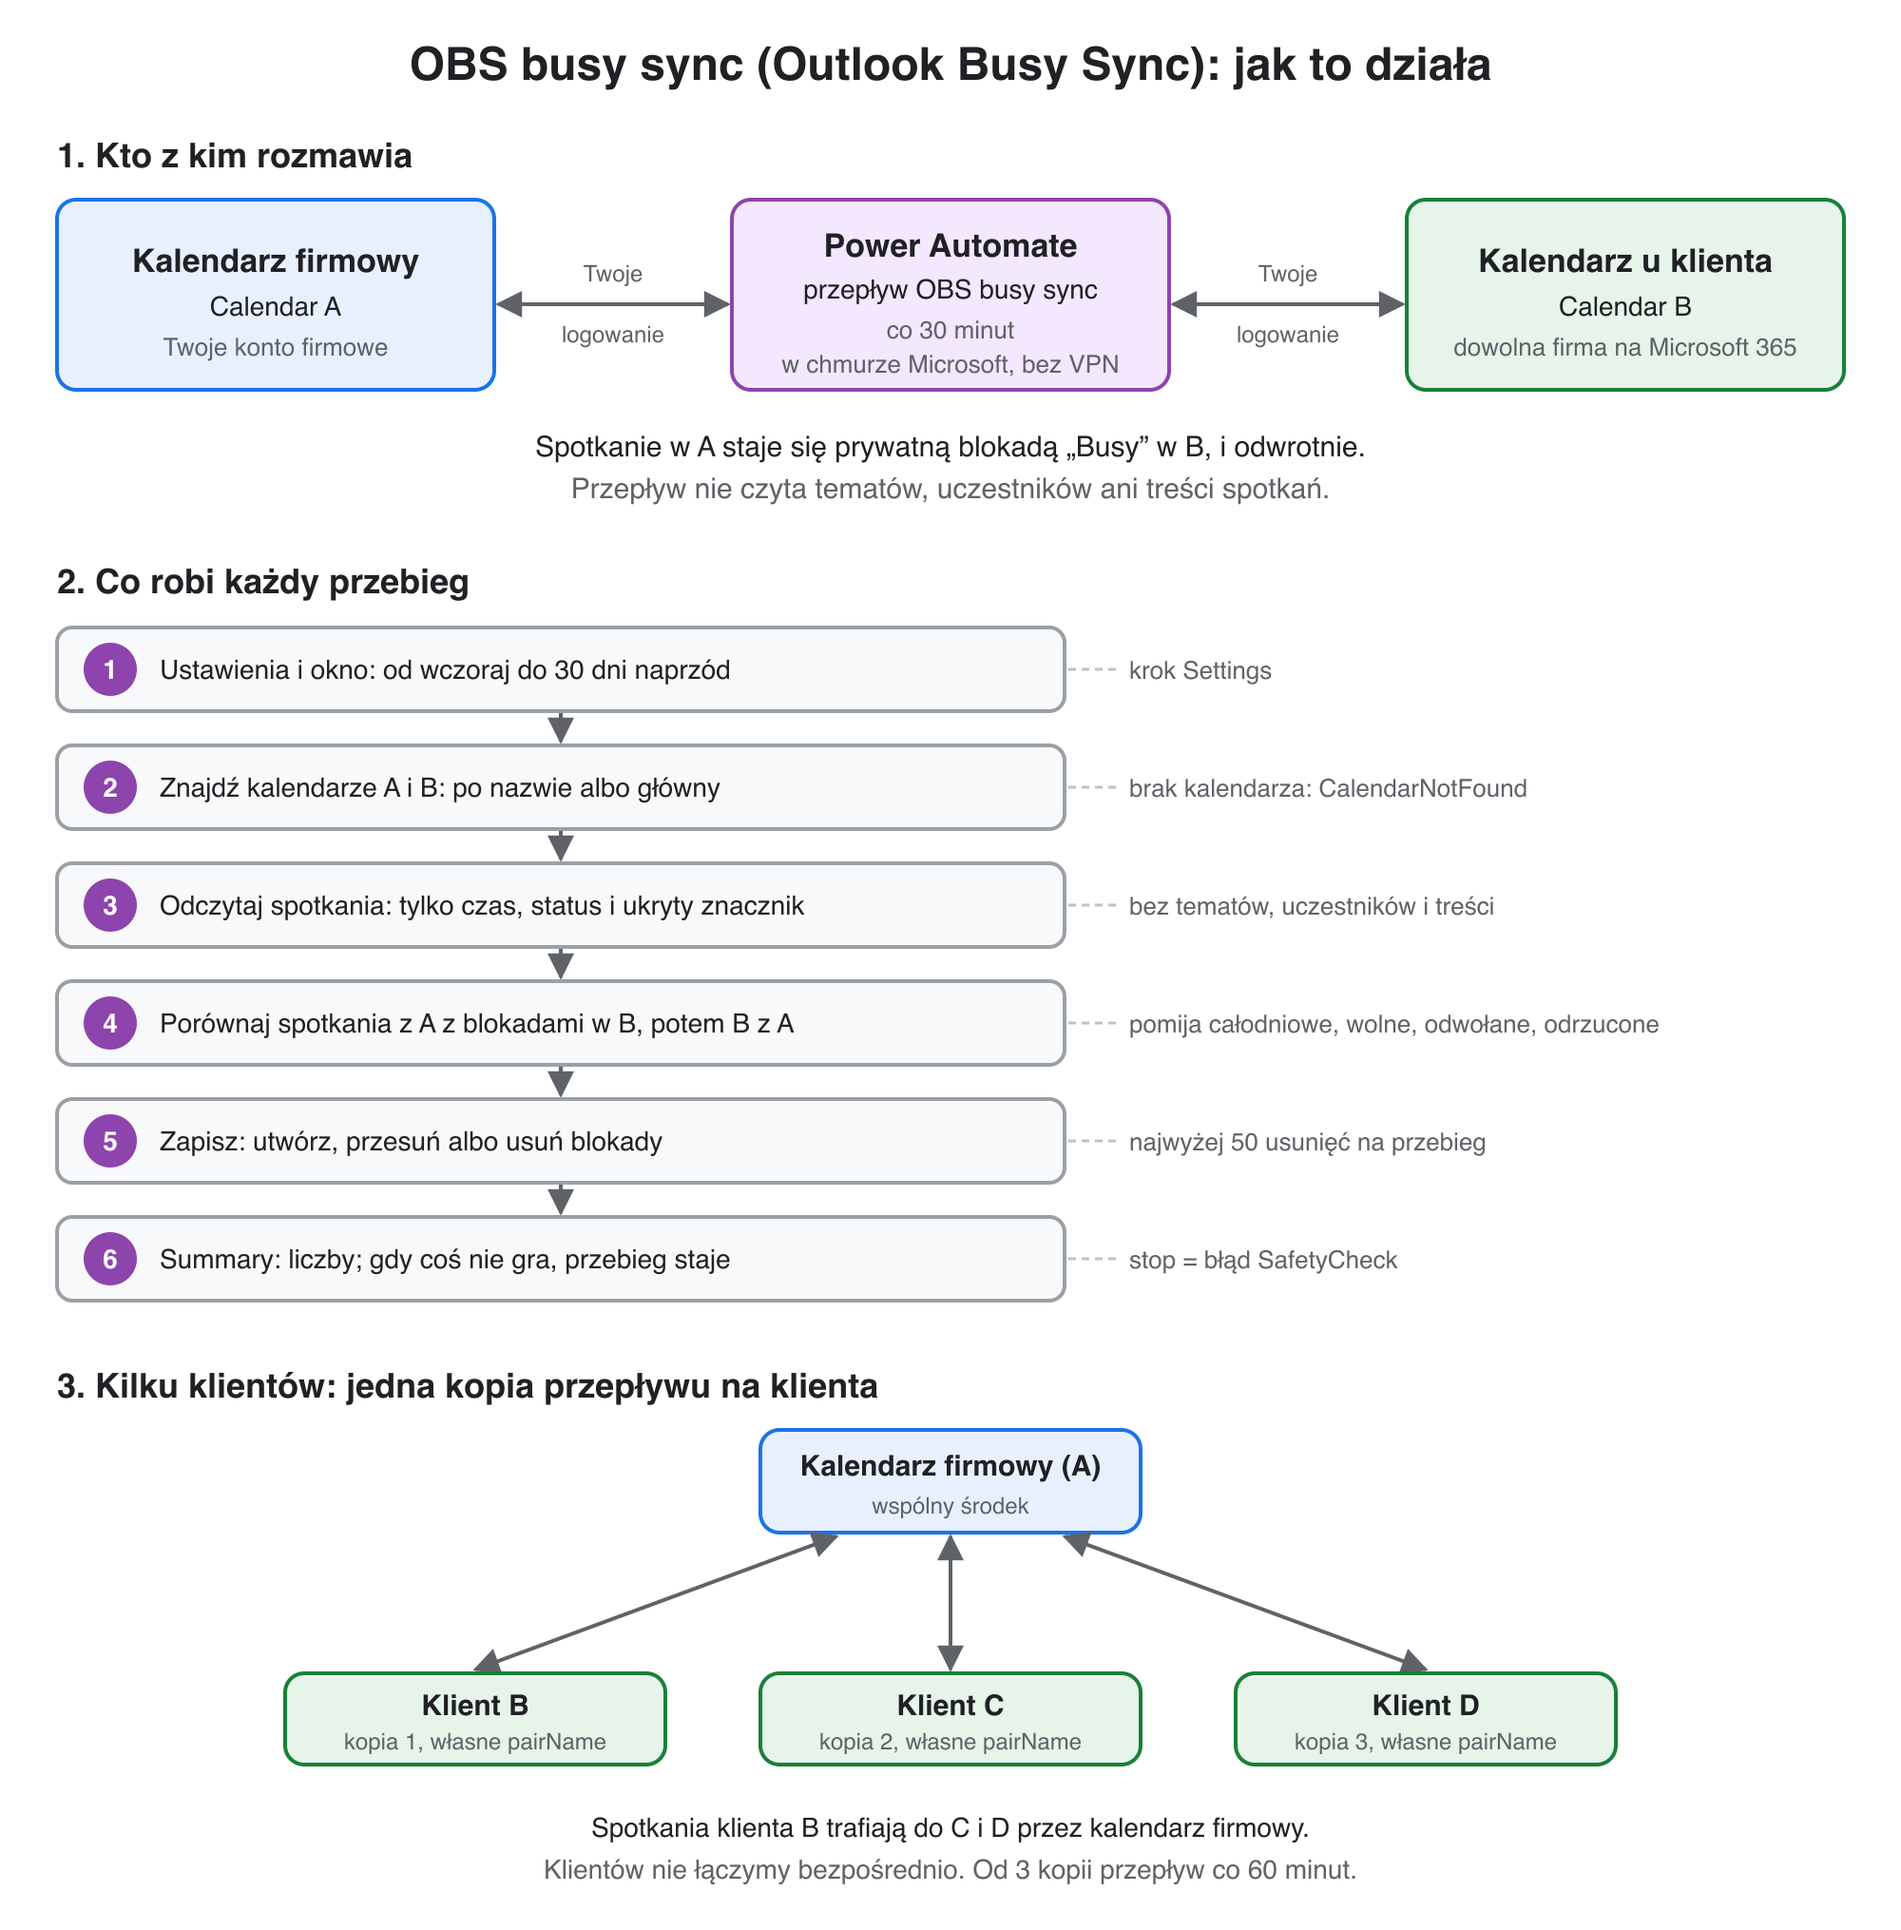
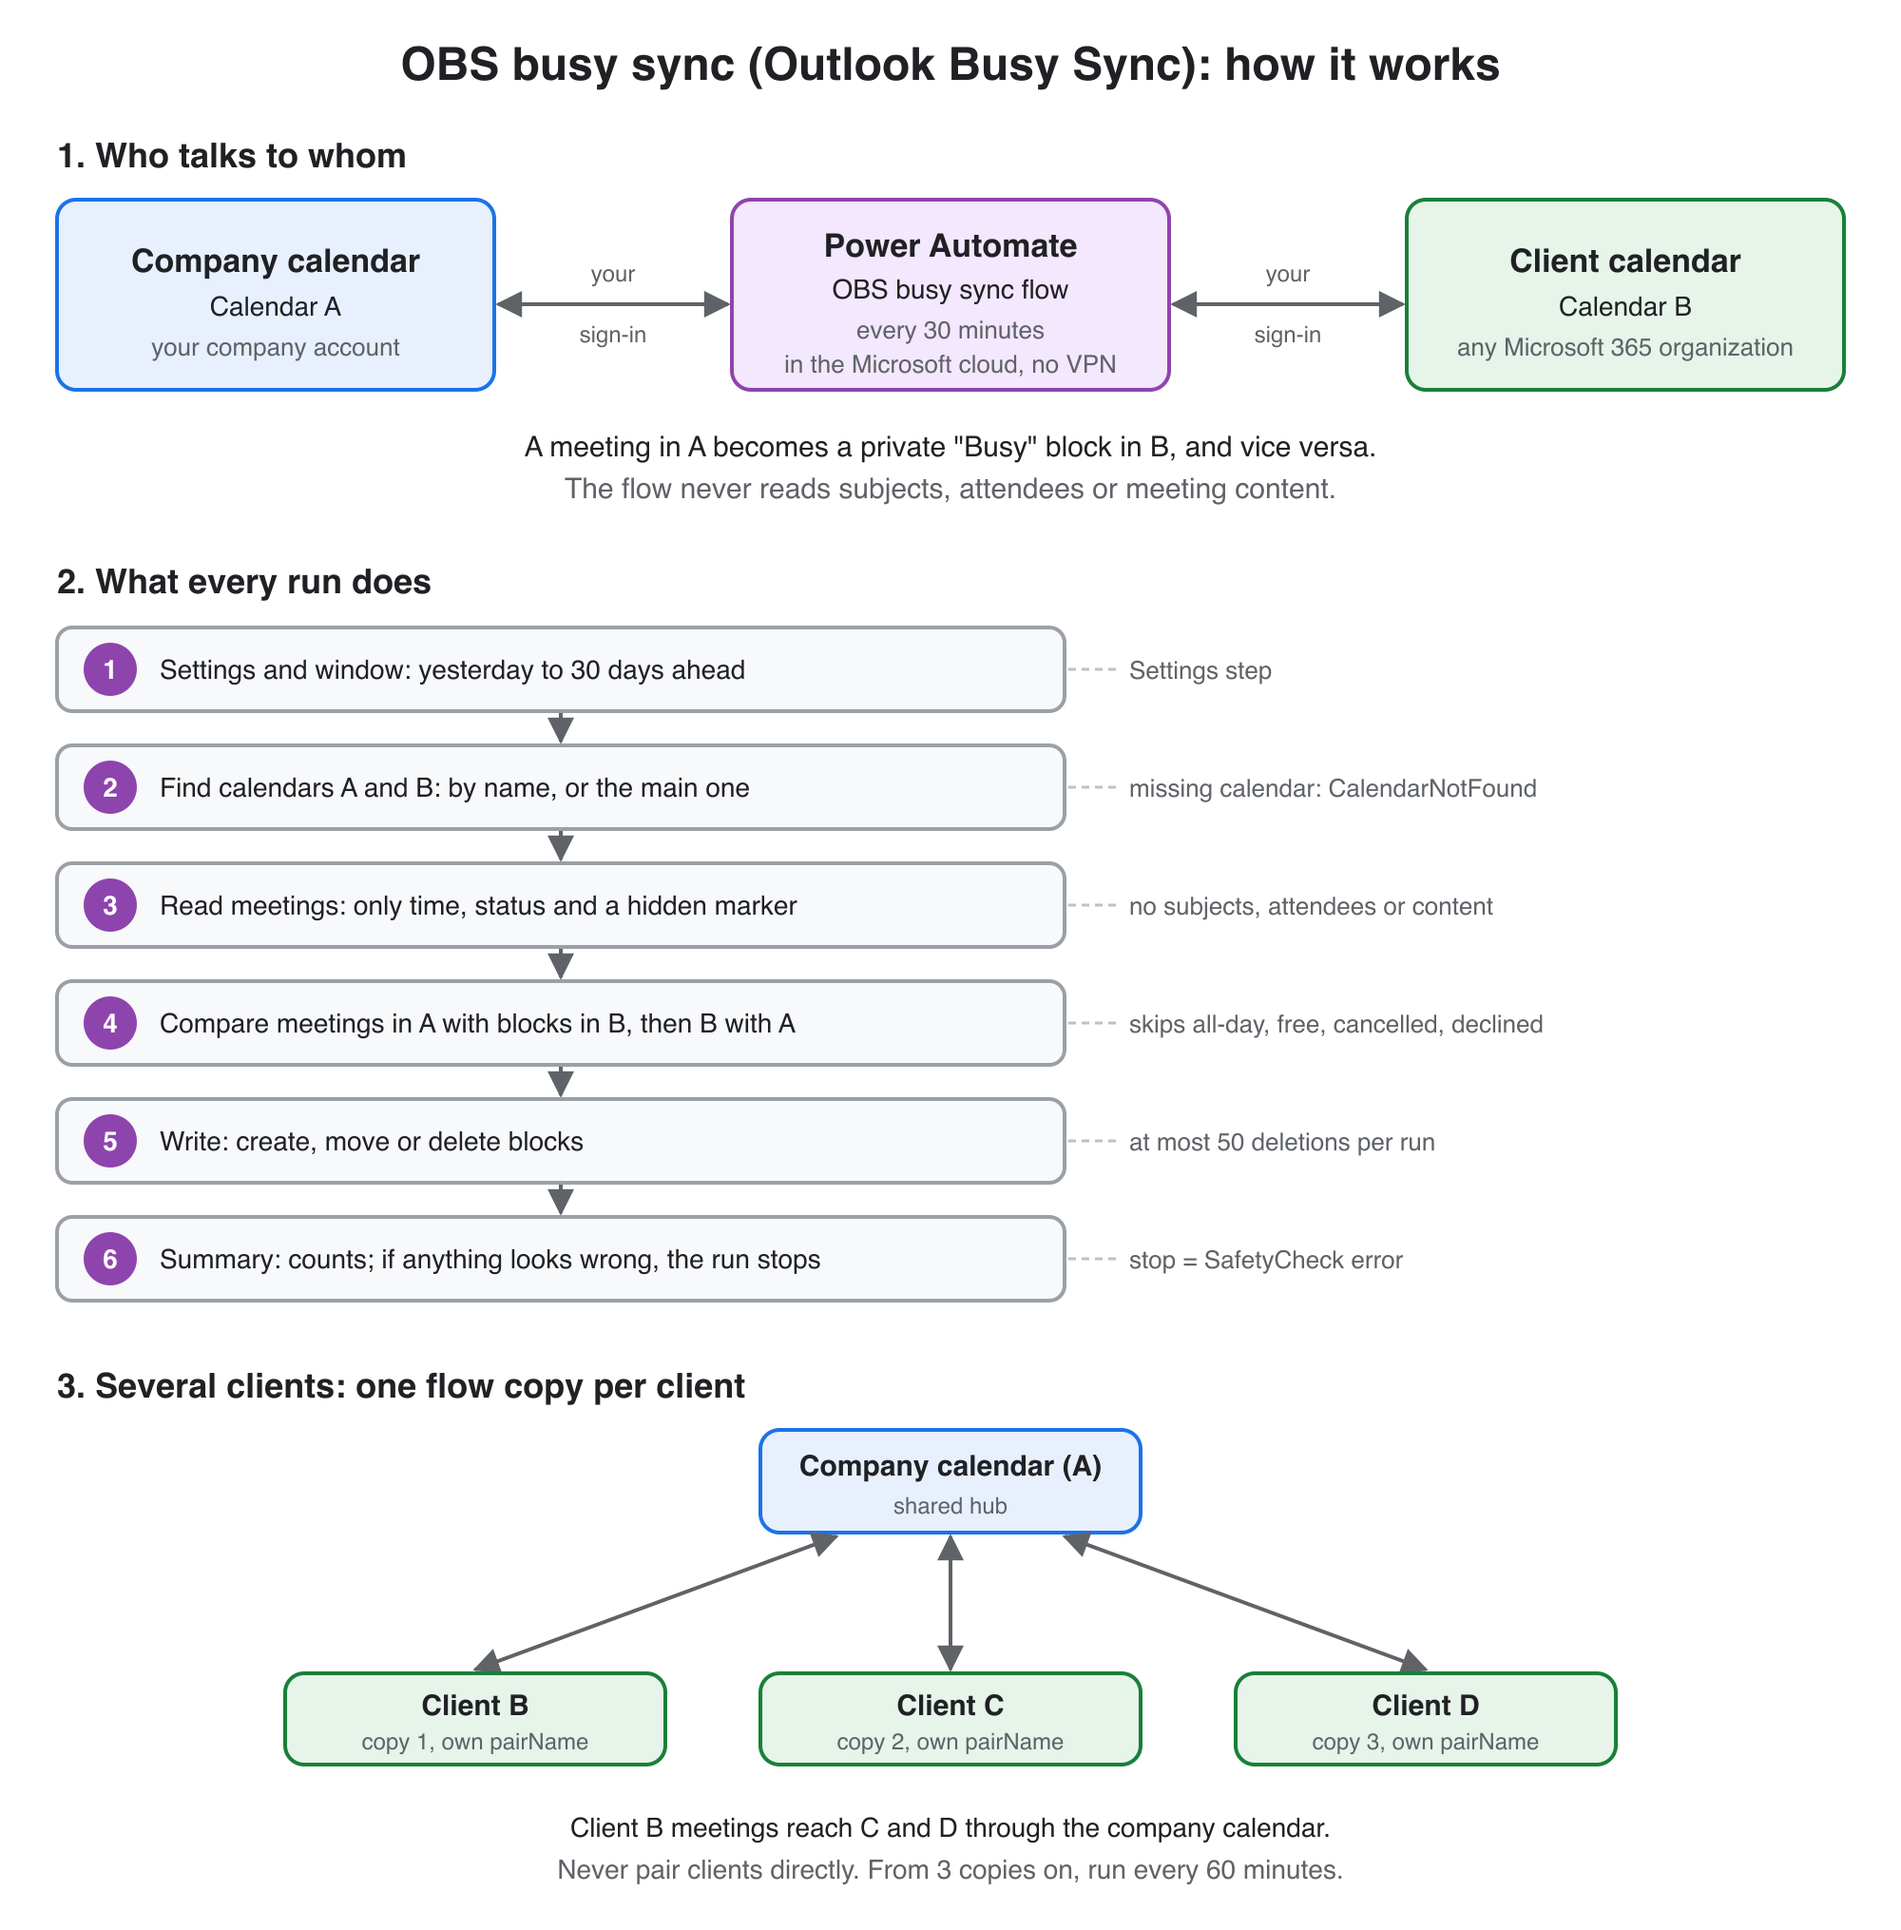
docs(power-automate): switch guide and diagram to English
Rename INSTRUKCJA.md to GUIDE.md and translate it, the README and the
diagram labels.

diff --git a/power-automate/README.md b/power-automate/README.md
@@ -1,60 +1,62 @@
-# OBS busy sync (Outlook Busy Sync): Twoja zajętość widoczna w obu firmach
+# OBS busy sync (Outlook Busy Sync): your busy time visible in both companies
 
-Co 30 minut przenosi Twoje spotkania między kalendarzem firmowym a kalendarzem u klienta jako prywatne blokady „Busy”. Nikt nie zobaczy tematów ani uczestników, bo przepływ w ogóle ich nie czyta.
+Every 30 minutes this Power Automate flow copies your meetings between your company calendar and your client calendar as private "Busy" blocks. Nobody sees subjects or attendees: the flow never reads them.
 
-![Jak działa OBS busy sync](obs-busy-sync-diagram.png)
+![How OBS busy sync works](obs-busy-sync-diagram.png)
 
-## Zanim zaczniesz (2 min)
-- [ ] Klient ma pocztę na Microsoft 365, czyli logujesz się do niej przez outlook.office.com.
-- [ ] IT klienta się zgadza. Jeśli nie wiesz, zapytaj.
-- [ ] Masz plik `obs-busy-sync.zip` i 15 minut.
+## Before you start (2 min)
+- [ ] Your client uses Microsoft 365 for mail (you sign in at outlook.office.com).
+- [ ] Your client's IT is fine with it. Ask if you are not sure.
+- [ ] You have `obs-busy-sync.zip` and 15 minutes.
 
-## Krok 1. Wgraj paczkę
-1. Otwórz make.powerautomate.com, a w nim **Moje przepływy**.
-2. Kliknij **Importuj**, potem **Importuj pakiet (starsza wersja)**.
-3. Kliknij **Przekaż** i wybierz `obs-busy-sync.zip`.
-4. Poczekaj około minuty na komunikat „Twój pakiet został przekazany pomyślnie”.
+## Step 1. Upload the package
+1. Open make.powerautomate.com and go to **My flows**.
+2. Select **Import** > **Import Package (Legacy)**.
+3. Select **Upload** and pick `obs-busy-sync.zip`.
+4. Wait about a minute until the package details appear.
 
-## Krok 2. Podłącz konta
-1. Przy **Calendar A** kliknij **Wybierz podczas importowania**.
-2. Kliknij **Utwórz nowy** i zaloguj się **kontem firmowym**.
-3. Wróć do karty importu. Kliknij **Odśwież listę**, zaznacz nowe połączenie i zapisz.
-4. Zrób to samo przy **Calendar B**, ale **kontem u klienta**.
-5. Kliknij **Importuj**. Przepływ „OBS busy sync” pojawi się w Moich przepływach jako wyłączony.
+## Step 2. Connect your accounts
+1. In the **Calendar A** row, click the **IMPORT SETUP** field.
+2. Select **Create new** and sign in with your **company account**.
+3. Go back to the import tab, refresh the list, select the new connection and **Save**.
+4. Do the same for **Calendar B**, with your **client account**.
+5. Select **Import**. "OBS busy sync" now appears in **My flows**, turned off.
 
-## Krok 3. Próba na sucho
-1. Otwórz przepływ, kliknij **Edytuj**, potem krok **Settings**.
-2. Zmień `"dryRun": false` na `"dryRun": true` i zapisz.
-3. Wróć do przepływu i **włącz** go. Pierwszy przebieg rusza od razu i niczego nie zapisuje.
-4. Po 1-2 minutach otwórz **Historię przebiegów**, potem ostatni przebieg i krok **Summary**.
-5. Sprawdź dwie rzeczy:
-   - `viewA` = `countA` i `viewB` = `countB`;
-   - `AtoB.create` (blokady u klienta) i `BtoA.create` (blokady w firmie) mniej więcej odpowiadają liczbie Twoich spotkań w ciągu 30 dni.
+## Step 3. Dry run
+1. Open the flow, select **Edit**, then the **Settings** step.
+2. Change `"dryRun": false` to `"dryRun": true` and save.
+3. Go back and **turn on** the flow. The first run starts right away and writes nothing.
+4. After 1-2 minutes open the run history, the latest run, then the **Summary** step.
+5. Check two things:
+   - `viewA` = `countA` and `viewB` = `countB`;
+   - `AtoB.create` (blocks for the client calendar) and `BtoA.create` (blocks for the company calendar) roughly match your number of meetings in the next 30 days.
 
-## Krok 4. Na serio
-1. Otwórz **Edytuj**, potem **Settings**, ustaw `"dryRun": false` i zapisz.
-2. Najpóźniej po 30 minutach zobaczysz blokady „Busy” w obu kalendarzach.
+## Step 4. Go live
+1. Select **Edit** > **Settings**, set `"dryRun": false` and save.
+2. Within 30 minutes you will see "Busy" blocks in both calendars.
 
-**Działa, gdy** kolejny przebieg pokazuje w Summary `create`, `update` i `delete` równe 0 w obu kierunkach.
+**It works when** the next run shows `create`, `update` and `delete` at 0 in both directions in Summary.
 
-## Masz drugiego klienta?
-- Zaimportuj ten sam zip jeszcze raz. Wybierz **Utwórz jako nowe** i nadaj inną nazwę.
-- Calendar A to to samo konto firmowe, Calendar B to nowy klient.
-- Zanim włączysz, wpisz w Settings `"pairName"`, np. `"acme"`. Tylko litery i cyfry, każda kopia inna.
-- Od 3 kopii zmień w wyzwalaczu **Recurrence** 30 minut na 60, żeby nie przekroczyć dobowego limitu zapytań.
+## Second client?
+- Import the same zip again, choose **Create as New** and give it another name.
+- Calendar A is the same company account, Calendar B is the new client.
+- Before you turn it on, set `"pairName"` in Settings, e.g. `"acme"`. Letters and digits only, different for each copy.
+- From 3 copies on, change the **Recurrence** trigger from 30 to 60 minutes to stay under the daily request limit.
 
-## Nie rób tego
-- **Nie wyłączaj kontroli współbieżności,** nawet jeśli Power Automate to proponuje. Powstałyby podwójne blokady.
-- **Nie łącz dwóch klientów bezpośrednio.** Zajętość i tak przejdzie przez kalendarz firmowy.
-- **Nie aktualizuj włączonego przepływu.** Wyłącz go, zaimportuj z opcją **Aktualizuj**, przepisz swoje Settings i dopiero włącz.
+## Don't
+- **Don't turn off concurrency control,** even if Power Automate suggests it. Parallel runs create duplicate blocks.
+- **Don't pair two clients directly.** Busy time already reaches them through the company calendar.
+- **Don't update a flow that is on.** Turn it off, import with **Update**, re-enter your Settings, then turn it on.
 
-## Coś nie działa
-| Błąd | Co zrobić |
+## Troubleshooting
+| Error | What to do |
 |---|---|
-| CalendarNotFound | Popraw nazwę w `calendarA` / `calendarB` albo zostaw puste |
-| TooManyEvents | Zmniejsz `daysAhead` w Settings |
-| SafetyCheck | Sprawdź w Summary, czy `viewA` = `countA` i `viewB` = `countB`. Jeśli błąd się powtarza, wyłącz przepływ i daj znać |
-| Nie da się utworzyć połączenia B | Organizacja klienta blokuje Power Automate. Po Twojej stronie nic się z tym nie da zrobić |
+| CalendarNotFound | Fix the name in `calendarA` / `calendarB`, or leave it empty |
+| TooManyEvents | Lower `daysAhead` in Settings |
+| SafetyCheck | In Summary, check that `viewA` = `countA` and `viewB` = `countB`. If it keeps failing, turn the flow off and report it |
+| Can't create the Calendar B connection | Your client's organization blocks Power Automate. Nothing to fix on your side |
 
-## Wyłączenie
-Wyłącz przepływ. Blokady zostaną w kalendarzach: usuń je ręcznie albo poczekaj, aż miną.
+## Turning it off
+Turn the flow off. Existing blocks stay in the calendars: delete them by hand or let them pass.
+
+Every setting explained: [GUIDE.md](GUIDE.md)

diff --git a/power-automate/GUIDE.md b/power-automate/GUIDE.md
@@ -1,0 +1,55 @@
+# OBS busy sync: mutual "Busy" blocks in Outlook calendars
+
+A Power Automate flow that copies busy time between a company account and a client account every 30 minutes. Every busy meeting in one calendar shows up in the other as a private "Busy" block. With several clients, each client's meetings reach the others through the company calendar.
+
+## What it does and doesn't do
+- Reads only the time and status of meetings. It never fetches the subject, attendees, location or body.
+- Covers a window from yesterday to 30 days ahead. Moves and deletes blocks along with the meetings, and handles recurring meetings.
+- Skips all-day meetings and meetings marked as free, cancelled or declined.
+- Changes only blocks it created itself. It recognizes them by a hidden marker.
+
+## Requirements
+- Power Automate as part of a Microsoft 365 licence.
+- The Office 365 Outlook connector must be able to sign in to the client account. If the client's organization blocks that sign-in, the flow won't work. Also ask the client's IT whether such a connection is allowed.
+- Blocks go to the main calendars. Secondary calendars don't affect the busy time others see.
+
+## Installation (about 10 minutes)
+1. make.powerautomate.com, My flows, Import, Import Package (Legacy).
+2. Upload and pick obs-busy-sync.zip.
+3. In the "Calendar A" row, click the IMPORT SETUP field, then Create new and sign in with the company account. Go back to the import, refresh the list, select the new connection and save. Do the same for "Calendar B" with the client account.
+4. Import. The "OBS busy sync" flow appears in My flows, turned off.
+5. Edit, Settings step: set dryRun to true and save. Turn the flow on. The first run starts right away, writes nothing, and shows in the Summary step how many blocks it would create.
+6. If the numbers look right, set dryRun to false and save. The next run fills the whole 30-day window.
+
+## Several clients
+- One copy per client, always pairing the company account with the client account. Calendar A is the same company account every time.
+- Import the next copy with "Create as New" and a different name. Before turning it on, set pairName in Settings to a short client name. A copy with an empty pairName would delete the first copy's blocks.
+- Don't pair clients directly with each other. Busy time reaches them through the company calendar anyway, and a client-to-client pair would create duplicate blocks.
+
+## Settings (Edit, Settings step)
+| Field | Default | Meaning |
+|---|---|---|
+| calendarA, calendarB | empty | calendar name (case-sensitive), empty = main calendar |
+| pairName | empty | with several copies: short client name, letters and digits only, different for each copy (case-insensitive) |
+| dryRun | false | true = the run only counts and writes nothing |
+| removeCliBlocks | false | true = deletes blocks created by the outlook-busy-sync CLI, up to 50 per run |
+| daysBack, daysAhead | 1, 30 | window in days |
+| blockTitle | Busy | block title |
+| skipDeclined | true | skip declined invitations |
+| maxDeletesPerRun | 50 | most deletions in one run |
+
+Change the frequency in the Recurrence trigger. A run with no changes makes about 42 requests, so about 2,000 per day per copy at 30 minutes. The limit for a Microsoft 365 licence is 6,000 per day per person, shared by all of that person's flows. From 3 copies on, set 60 minutes.
+
+## Moving from the CLI
+Set dryRun and removeCliBlocks to true and check cliA and cliB in Summary. Then set dryRun to false: the flow replaces the CLI blocks with its own. When cliA and cliB drop to 0, set removeCliBlocks back to false and stop running the CLI for that pair.
+
+## When a run fails
+- CalendarNotFound: there is no calendar with that name. Fix the name or leave the field empty.
+- TooManyEvents: more than 500 meetings in the window. Lower daysAhead.
+- SafetyCheck: some changes were skipped because there were too many deletions at once, the source calendar was empty, or the read was incomplete. In the Summary step compare view and count, they should be equal. If the error repeats, turn the flow off.
+
+## Good to know
+- Ignore the trigger concurrency warning. Don't turn off concurrency control: parallel runs would create duplicate blocks.
+- Turn the flow off before updating to a new version. Importing with "Update" overwrites the Settings step, so re-enter your settings before turning it back on.
+- Turning the flow off or deleting it leaves existing blocks. Delete them by hand or wait until they pass.
+- Declined invitations are handled but have not been tested.
